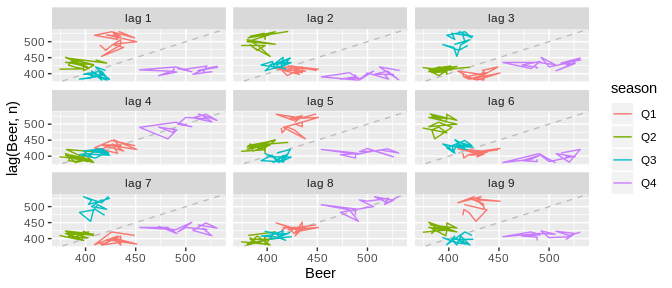
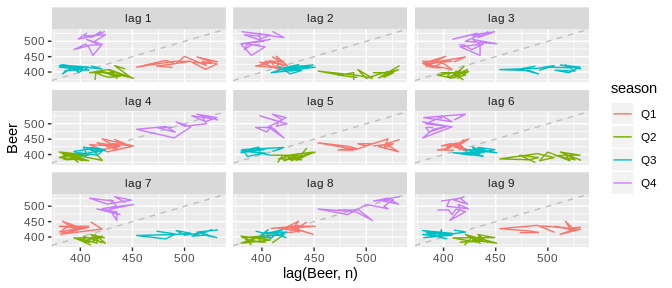
Flip gg_lag axis

diff --git a/NEWS.md b/NEWS.md
@@ -1,5 +1,9 @@
 # feasts (development version)
 
+## Improvements
+
+* The axis for `gg_lag()` have been reversed for consistency with `stats::lag.plot()`.
+
 # feasts 0.1.2
 
 ## Improvements
